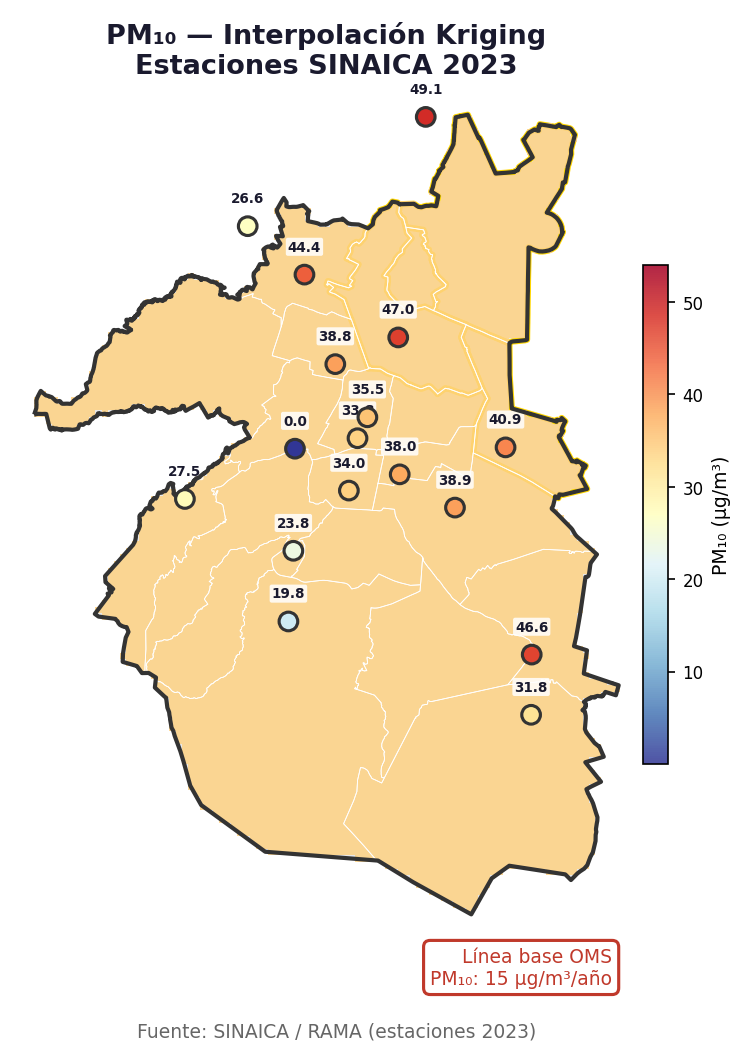
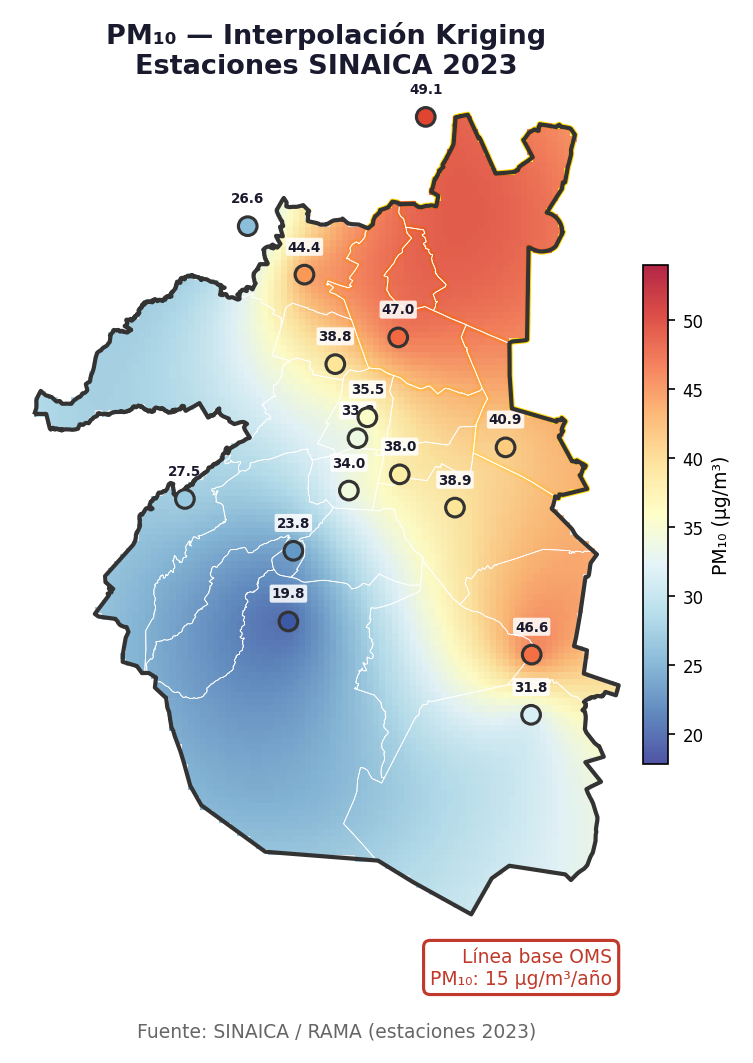
chore(charts): regenerate from the cleaned series and drop the redundant guard
The map PNGs were generated on the redesign branch while the station CSV was
still contaminated, so they carried an ad-hoc p75 > 0 guard in the chart
functions. With the root fix in compute_annual_stats merged, that guard now
filters nothing (0 of 49 series have p75 == 0) and is removed, with a note
saying where the cleaning actually happens. A duplicated guard hides a
regression; a single one upstream does not.

Regenerating changed only the two interpolated surfaces:

  outputs/mapas/zmvm/pm_zmvm.png
  outputs/mapas/zmvm/pm10_zmvm.png

Those are the kriging surfaces built from the station values, which until now
included the zero-contaminated series. The bar charts came out byte-identical,
because the old filters already excluded the same rows.

The app text about PM was stale in two places and asserted something no longer
true: that the per-municipality averages still included the zeros. They never
did -- compute_municipio_indicators.py carried its own annual_mean > 1.0
threshold -- and after the root fix the series are clean throughout. Both the
chart caption and the limitation now say what actually happened.

diff --git a/scripts/export_maps.py b/scripts/export_maps.py
@@ -504,6 +504,12 @@ from src.stations import STATIONS_META  # noqa: E402
 
 ST_META = {name: meta["zone"] for name, meta in STATIONS_META.items()}
 
+# No zero-handling lives here any more. compute_annual_stats drops readings the
+# source flags invalid and series whose 75th percentile is zero, so the CSV this
+# module reads already contains only real measurements. The three filtering
+# guards that used to sit in the chart functions were an ad-hoc workaround for
+# that upstream bug; keeping them would hide it if it ever came back.
+
 
 def _chart_legend():
     return [
@@ -583,11 +589,7 @@ def plot_ndvi_chart():
 
 def plot_no2_chart():
     st = pd.read_csv(DATA / "processed" / "ground_stations_annual_2023.csv")
-    # A station whose 75th percentile is zero is not reporting: zeros are being
-    # counted as valid readings. Keeping those rows drags the annual mean to ~0
-    # and puts a meaningless "0.0" bar in the chart.
-    no2 = st[(st["pollutant"] == "NO2") & (st["annual_mean"] > 0)
-             & (st["p75"] > 0)].copy()
+    no2 = st[st["pollutant"] == "NO2"].copy()
     no2["zone"] = no2["station_name"].map(ST_META)
     no2 = no2.sort_values("annual_mean")
 
@@ -613,11 +615,7 @@ def plot_no2_chart():
 
 def plot_pm_chart():
     st = pd.read_csv(DATA / "processed" / "ground_stations_annual_2023.csv")
-    # A station whose 75th percentile is zero is not reporting: zeros are being
-    # counted as valid readings. Keeping those rows drags the annual mean to ~0
-    # and puts a meaningless "0.0" bar in the chart.
-    pm = st[(st["pollutant"] == "PM2.5") & (st["annual_mean"] > 0)
-            & (st["p75"] > 0)].copy()
+    pm = st[st["pollutant"] == "PM2.5"].copy()
     pm["zone"] = pm["station_name"].map(ST_META)
     pm = pm.sort_values("annual_mean")
 
@@ -642,11 +640,7 @@ def plot_pm_chart():
 
 def plot_pm10_chart():
     st = pd.read_csv(DATA / "processed" / "ground_stations_annual_2023.csv")
-    # A station whose 75th percentile is zero is not reporting: zeros are being
-    # counted as valid readings. Keeping those rows drags the annual mean to ~0
-    # and puts a meaningless "0.0" bar in the chart.
-    pm = st[(st["pollutant"] == "PM10") & (st["annual_mean"] > 0)
-            & (st["p75"] > 0)].copy()
+    pm = st[st["pollutant"] == "PM10"].copy()
     pm["zone"] = pm["station_name"].map(ST_META)
     pm = pm.sort_values("annual_mean")
 

diff --git a/dashboards/app.py b/dashboards/app.py
@@ -215,9 +215,8 @@ st.image(
 
 st.image(
     str(MAPAS / "pm_chart_zmvm.png"),
-    caption="PM₂.₅ en las estaciones SINAICA que reportan datos. Todas superan el límite "
-    "anual de la OMS de 5 µg/m³. Varias estaciones del registro original reportan 0.000 en "
-    "más de la mitad del año: ver la sección 6.",
+    caption="PM₂.₅ en las estaciones SINAICA que reportan datos. Las 13 superan el límite "
+    "anual de la OMS de 5 µg/m³.",
     width="stretch",
 )
 
@@ -427,12 +426,13 @@ st.markdown(
        es de 15,887 por 100 mil (15.9 %), demasiado alta para egresos hospitalarios en un año.
        J00–J99 incluye el resfrío común, así que la fuente puede estar contando consultas.
        Las correlaciones no dependen de que el nivel sea correcto; las cifras de nivel, sí.
-    6. **El registro de PM arrastra ceros que no son mediciones.** 31 de las 60 filas
-       estación-contaminante tienen media anual por debajo de 0.5 µg/m³, con mediana y
-       percentil 75 en 0.000 pero miles de observaciones contadas como válidas. Tláhuac,
-       Naucalpan y Ecatepec reportan media anual 0.000. Cualquier promedio que los incluya
-       queda sesgado hacia abajo, y los promedios por municipio del repositorio todavía los
-       incluyen: las cifras de PM por zona no son confiables hasta corregirlo.
+    6. **El registro de PM necesitó limpieza, y la limpieza es un criterio.** SINAICA marca cada
+       lectura con `validoAct`; el pipeline lo calculaba y **lo ignoraba**, así que promediaba
+       lecturas inválidas y varias estaciones quedaban con media anual 0.000. Filtrar por la
+       bandera no alcanza: Ecatepec PM₁₀ reporta 0.000 en las 8.760 horas del año con la bandera
+       de válido puesta. Se aplican dos umbrales — al menos 2.190 lecturas válidas y al menos
+       25 % de ellas sobre cero — que descartan tres series de 52 y no mueven ninguna otra. Los
+       promedios por municipio ya se calcularon con las series limpias.
     7. **La encuesta es un piloto.** 34 respuestas en 16 municipios, mediana de 2 por municipio.
        No es representativa y ningún resultado cuantitativo de esta página se apoya en ella.
     """
